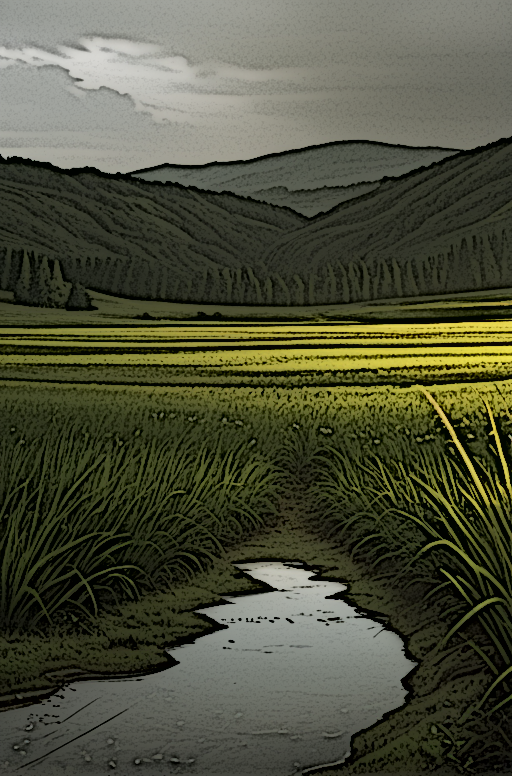
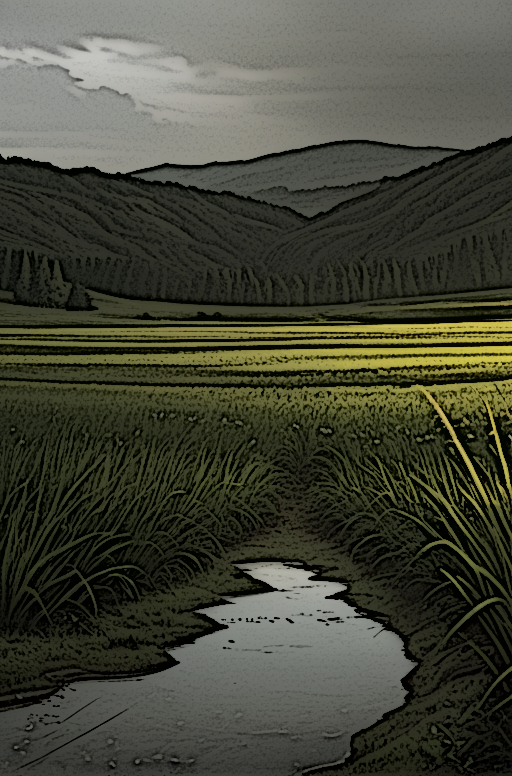
Bugfixes

Changed region(s): [[0.25, 0.4021, 1.0, 0.6804], [0.875, 0.5567, 0.9062, 0.5876]]

diff --git a/js/data/units-data.js b/js/data/units-data.js
@@ -514,7 +514,7 @@ const UNIT_DEFS = [
     raceId: RACE_IDS.ELF,
     name: 'Aethera Hoplite',
     emoji: '🛡️',
-    cardSpriteImg: 'assets/cards/units/aethera_hoplite.png',
+    cardSpriteImg: 'assets/cards/units/elf_hoplite.png',
     description: 'City-state spearmen. Disciplined and mobile.',
     attack: 4, defense: 6, maxHp: 10,
     tier: 1,
@@ -619,9 +619,9 @@ const UNIT_DEFS = [
     emoji: '📣',
     cardSpriteImg: 'assets/cards/units/drill_master.png',
     description: 'An officer who instils discipline into levy troops, raising their combat ability.',
-    attack: 4, defense: 4, maxHp: 10,
+    attack: 2, defense: 4, maxHp: 10,
     tier: 1,
-    movement: 1, upkeepGold: 1,
+    movement: 1, upkeepGold: 2,
     unitType: UNIT_TYPES.INFANTRY,
     cost: { gold: 35, tribute: 3 },
     buildTurns: 1,
@@ -976,7 +976,7 @@ const MILITIA_MAP = {
   [FACTION_IDS.ARCHONATE_GREYHAVEN]: 'greyhaven_militia',
   [FACTION_IDS.SUTEKH_RA]:           'river_guard',
   [FACTION_IDS.CLANS_FIRST_SCALE]:   'scale_clan_militia',
-  neutral:                            'militia_neutral',
+  neutral:                           'militia_neutral',
 };
 
 export function getMilitiaUnitIdForFaction(factionId) {